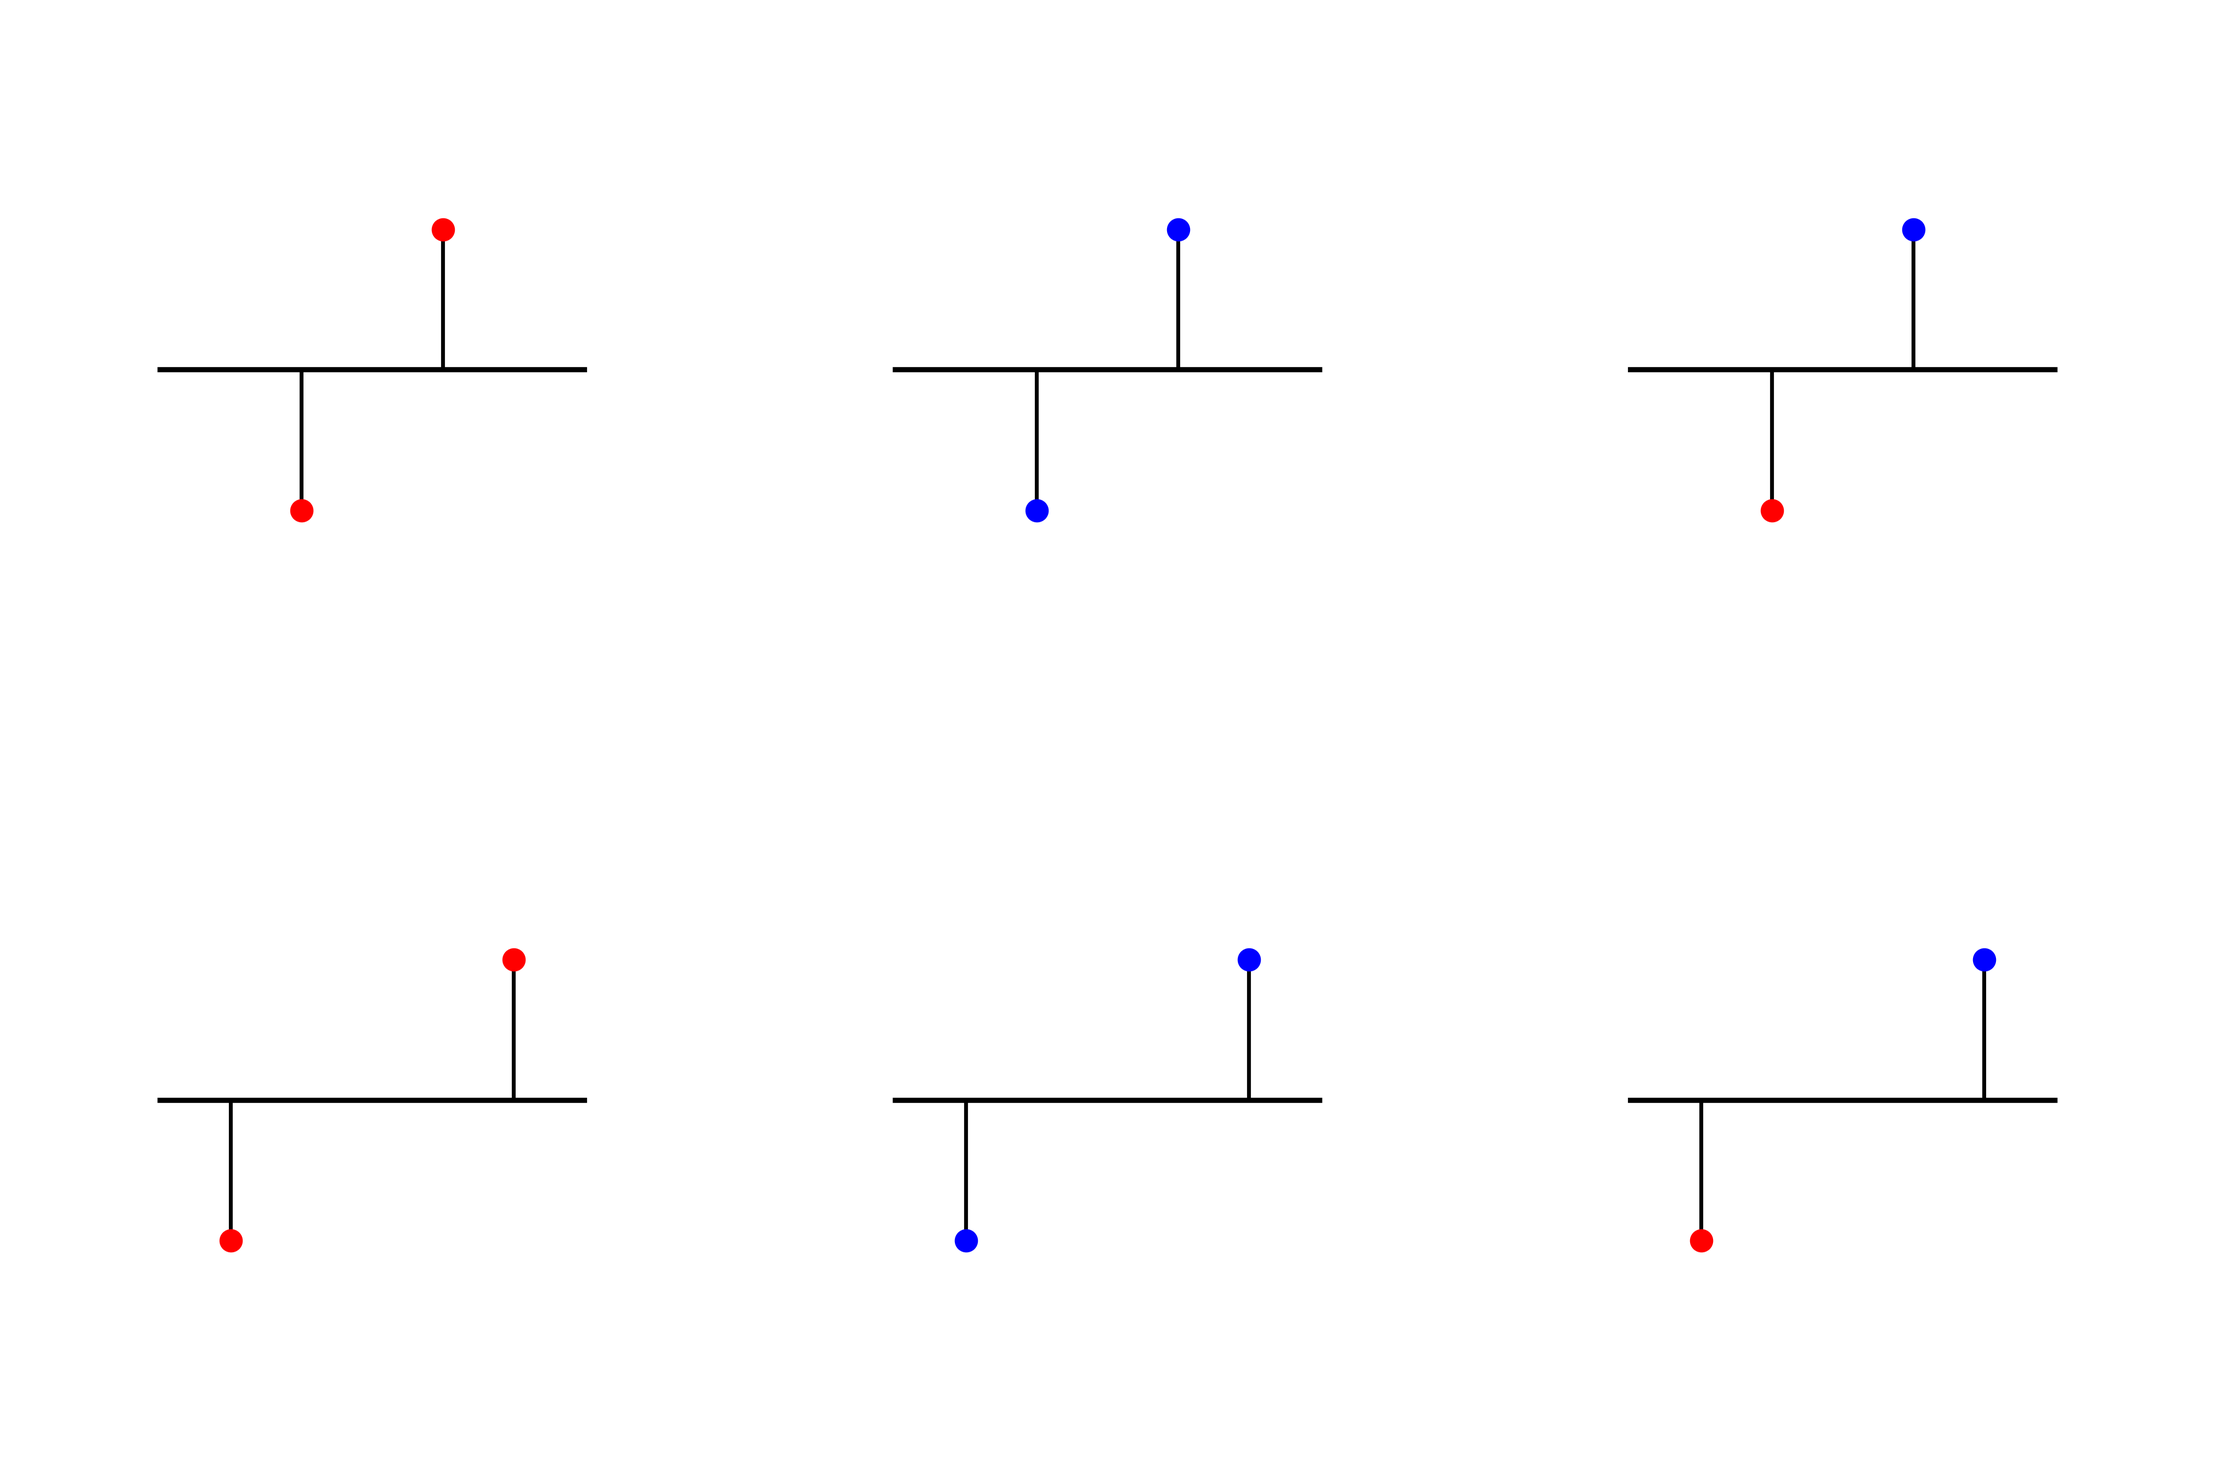
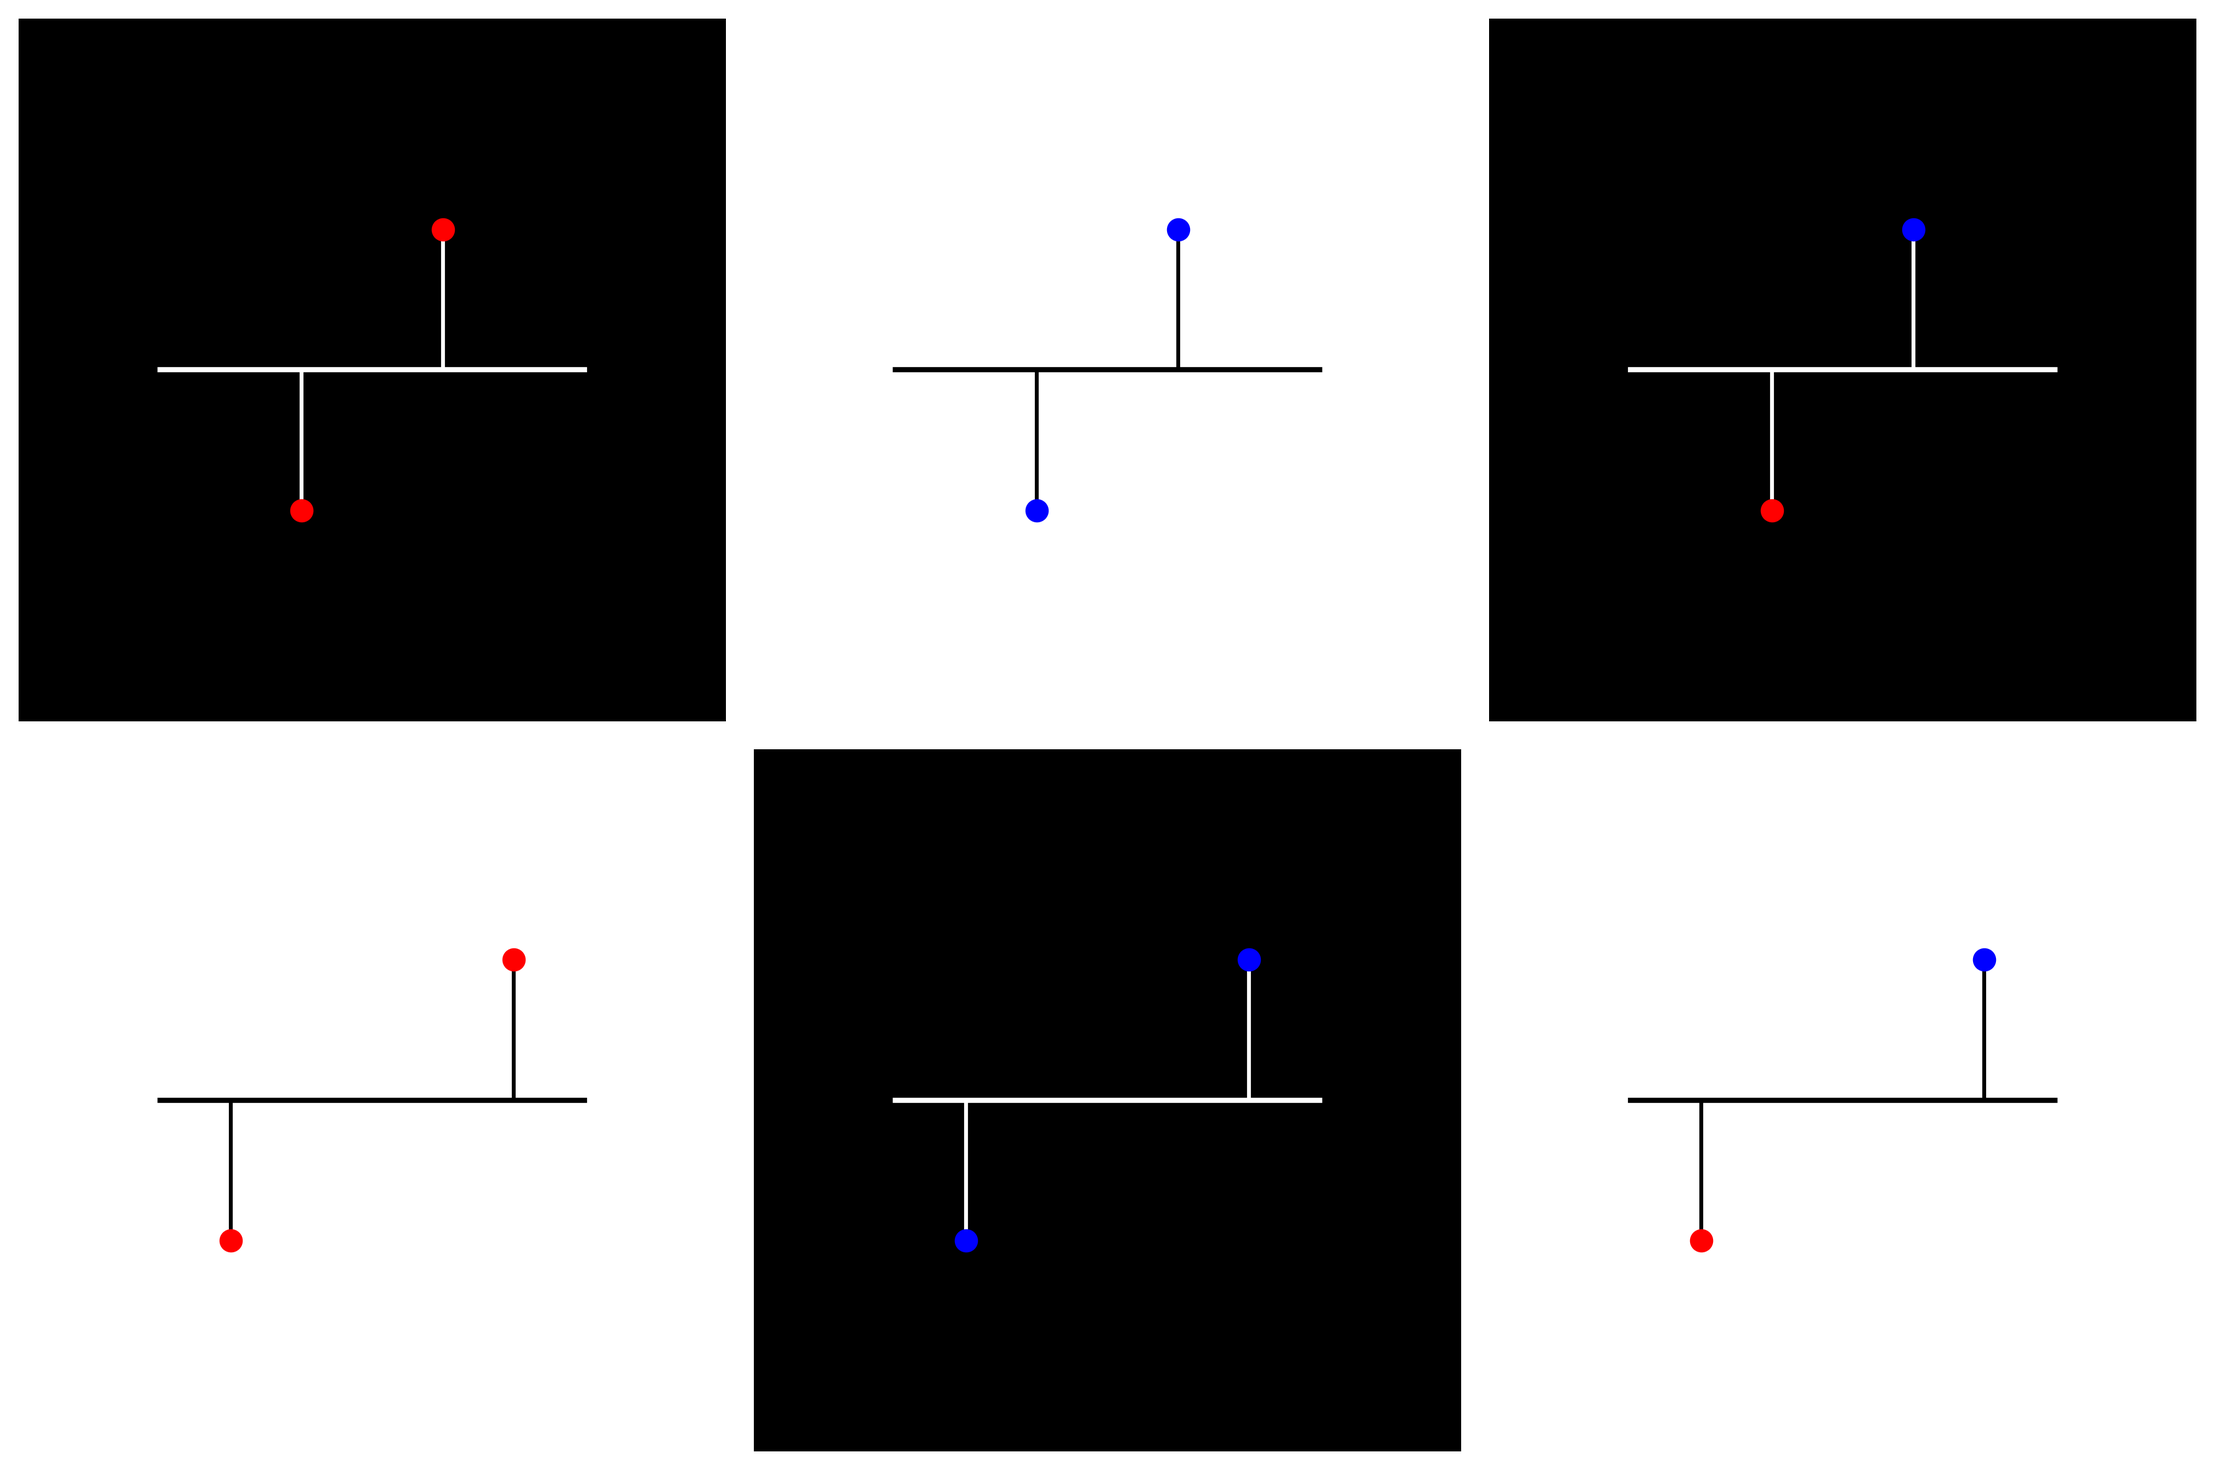
grays

diff --git a/prettyXOR.py b/prettyXOR.py
@@ -286,6 +286,23 @@ def create_plots():
         # Generate random synapse positions for all dendrite examples
         np.random.seed(42)  # For reproducible randomization
         dendrite_configs = []
+        
+        # Define subtle color palette with very light gray variations
+        subtle_colors = [
+            '#FEFEFE',  # Almost white
+            '#FDFDFD',  # Almost white
+            '#FCFCFC',  # Almost white
+            '#FBFBFB',  # Almost white
+            '#FAFAFA',  # Almost white
+            '#F9F9F9',  # Almost white
+            '#F8F8F8',  # Very light gray
+            '#F7F7F7',  # Very light gray
+            '#F6F6F6',  # Very light gray
+            '#F5F5F5',  # White smoke
+            '#F4F4F4',  # Very light gray
+            '#F3F3F3'   # Very light gray
+        ]
+        
         for _ in range(16):  # 16 dendrite examples total (4 rows + 4 cols + 4 corners)
             pos1 = np.random.uniform(2.5, 7.5)
             pos2 = np.random.uniform(2.5, 7.5)
@@ -308,16 +325,34 @@ def create_plots():
             ax_dendrite = fig.add_subplot(4, 5, i+1)
             ax_dendrite.set_xlim(0, 10)
             ax_dendrite.set_ylim(0, 10)
-            ax_dendrite.axis('off')
+            # Turn axes on but hide lines, ticks, and labels for proper facecolor support
+            ax_dendrite.set_xticks([])
+            ax_dendrite.set_yticks([])
+            ax_dendrite.spines['top'].set_visible(False)
+            ax_dendrite.spines['right'].set_visible(False)
+            ax_dendrite.spines['bottom'].set_visible(False)
+            ax_dendrite.spines['left'].set_visible(False)
             
             config = dendrite_configs[i]
+            
+            # Alternating color scheme: odd positions (0,2,4) = white background, even positions (1,3) = subtle color background
+            if i % 2 == 0:  # White background
+                ax_dendrite.set_facecolor('white')
+                dendrite_color = 'k-'
+                branch_color = 'k-'
+            else:  # Subtle color background
+                subtle_color = subtle_colors[i % len(subtle_colors)]
+                ax_dendrite.set_facecolor(subtle_color)
+                dendrite_color = 'k-'  # Black dendrites on light backgrounds
+                branch_color = 'k-'
+            
             # Main dendrite line
-            ax_dendrite.plot([2, 8], [5, 5], 'k-', linewidth=2)
+            ax_dendrite.plot([2, 8], [5, 5], dendrite_color, linewidth=2)
             # First synapse
-            ax_dendrite.plot([config['pos1'], config['pos1']], [5, 3], 'k-', linewidth=1.5)
+            ax_dendrite.plot([config['pos1'], config['pos1']], [5, 3], branch_color, linewidth=1.5)
             ax_dendrite.plot(config['pos1'], 3, f'{config["syn1_color"][0]}o', markersize=8)
             # Second synapse
-            ax_dendrite.plot([config['pos2'], config['pos2']], [5, 7], 'k-', linewidth=1.5)
+            ax_dendrite.plot([config['pos2'], config['pos2']], [5, 7], branch_color, linewidth=1.5)
             ax_dendrite.plot(config['pos2'], 7, f'{config["syn2_color"][0]}o', markersize=8)
 
         for i in range(len(json_files)):
@@ -473,16 +508,34 @@ def create_plots():
             ax_dendrite = fig.add_subplot(4, 5, pos)
             ax_dendrite.set_xlim(0, 10)
             ax_dendrite.set_ylim(0, 10)
-            ax_dendrite.axis('off')
+            # Turn axes on but hide lines, ticks, and labels for proper facecolor support
+            ax_dendrite.set_xticks([])
+            ax_dendrite.set_yticks([])
+            ax_dendrite.spines['top'].set_visible(False)
+            ax_dendrite.spines['right'].set_visible(False)
+            ax_dendrite.spines['bottom'].set_visible(False)
+            ax_dendrite.spines['left'].set_visible(False)
             
             config = dendrite_configs[i + 5]  # Use different configs
+            
+            # Alternating color scheme: position 6 = white background, position 11 = subtle color background
+            if i == 0:  # Position 6 - white background
+                ax_dendrite.set_facecolor('white')
+                dendrite_color = 'k-'
+                branch_color = 'k-'
+            else:  # Position 11 - subtle color background
+                subtle_color = subtle_colors[(i + 5) % len(subtle_colors)]
+                ax_dendrite.set_facecolor(subtle_color)
+                dendrite_color = 'k-'  # Black dendrites on light backgrounds
+                branch_color = 'k-'
+            
             # Main dendrite line
-            ax_dendrite.plot([2, 8], [5, 5], 'k-', linewidth=2)
+            ax_dendrite.plot([2, 8], [5, 5], dendrite_color, linewidth=2)
             # First synapse
-            ax_dendrite.plot([config['pos1'], config['pos1']], [5, 3], 'k-', linewidth=1.5)
+            ax_dendrite.plot([config['pos1'], config['pos1']], [5, 3], branch_color, linewidth=1.5)
             ax_dendrite.plot(config['pos1'], 3, f'{config["syn1_color"][0]}o', markersize=8)
             # Second synapse
-            ax_dendrite.plot([config['pos2'], config['pos2']], [5, 7], 'k-', linewidth=1.5)
+            ax_dendrite.plot([config['pos2'], config['pos2']], [5, 7], branch_color, linewidth=1.5)
             ax_dendrite.plot(config['pos2'], 7, f'{config["syn2_color"][0]}o', markersize=8)
         
         # RIGHT COLUMN: Dendrite visualizations (positions 10, 15) - skip corners
@@ -491,16 +544,34 @@ def create_plots():
             ax_dendrite = fig.add_subplot(4, 5, pos)
             ax_dendrite.set_xlim(0, 10)
             ax_dendrite.set_ylim(0, 10)
-            ax_dendrite.axis('off')
+            # Turn axes on but hide lines, ticks, and labels for proper facecolor support
+            ax_dendrite.set_xticks([])
+            ax_dendrite.set_yticks([])
+            ax_dendrite.spines['top'].set_visible(False)
+            ax_dendrite.spines['right'].set_visible(False)
+            ax_dendrite.spines['bottom'].set_visible(False)
+            ax_dendrite.spines['left'].set_visible(False)
             
             config = dendrite_configs[i + 7]  # Use different configs
+            
+            # Alternating color scheme: position 10 = subtle color background, position 15 = white background
+            if i == 0:  # Position 10 - subtle color background
+                subtle_color = subtle_colors[(i + 7) % len(subtle_colors)]
+                ax_dendrite.set_facecolor(subtle_color)
+                dendrite_color = 'k-'  # Black dendrites on light backgrounds
+                branch_color = 'k-'
+            else:  # Position 15 - white background
+                ax_dendrite.set_facecolor('white')
+                dendrite_color = 'k-'
+                branch_color = 'k-'
+            
             # Main dendrite line
-            ax_dendrite.plot([2, 8], [5, 5], 'k-', linewidth=2)
+            ax_dendrite.plot([2, 8], [5, 5], dendrite_color, linewidth=2)
             # First synapse
-            ax_dendrite.plot([config['pos1'], config['pos1']], [5, 3], 'k-', linewidth=1.5)
+            ax_dendrite.plot([config['pos1'], config['pos1']], [5, 3], branch_color, linewidth=1.5)
             ax_dendrite.plot(config['pos1'], 3, f'{config["syn1_color"][0]}o', markersize=8)
             # Second synapse
-            ax_dendrite.plot([config['pos2'], config['pos2']], [5, 7], 'k-', linewidth=1.5)
+            ax_dendrite.plot([config['pos2'], config['pos2']], [5, 7], branch_color, linewidth=1.5)
             ax_dendrite.plot(config['pos2'], 7, f'{config["syn2_color"][0]}o', markersize=8)
         
         # BOTTOM ROW: Dendrite visualizations (positions 16-20)
@@ -508,16 +579,34 @@ def create_plots():
             ax_dendrite = fig.add_subplot(4, 5, 16 + i)
             ax_dendrite.set_xlim(0, 10)
             ax_dendrite.set_ylim(0, 10)
-            ax_dendrite.axis('off')
+            # Turn axes on but hide lines, ticks, and labels for proper facecolor support
+            ax_dendrite.set_xticks([])
+            ax_dendrite.set_yticks([])
+            ax_dendrite.spines['top'].set_visible(False)
+            ax_dendrite.spines['right'].set_visible(False)
+            ax_dendrite.spines['bottom'].set_visible(False)
+            ax_dendrite.spines['left'].set_visible(False)
             
             config = dendrite_configs[i + 7]  # Use different configs
+            
+            # Alternating color scheme: odd positions (16,18,20) = white background, even positions (17,19) = subtle color background
+            if i % 2 == 0:  # White background
+                ax_dendrite.set_facecolor('white')
+                dendrite_color = 'k-'
+                branch_color = 'k-'
+            else:  # Subtle color background
+                subtle_color = subtle_colors[(i + 7) % len(subtle_colors)]
+                ax_dendrite.set_facecolor(subtle_color)
+                dendrite_color = 'k-'  # Black dendrites on light backgrounds
+                branch_color = 'k-'
+            
             # Main dendrite line
-            ax_dendrite.plot([2, 8], [5, 5], 'k-', linewidth=2)
+            ax_dendrite.plot([2, 8], [5, 5], dendrite_color, linewidth=2)
             # First synapse
-            ax_dendrite.plot([config['pos1'], config['pos1']], [5, 3], 'k-', linewidth=1.5)
+            ax_dendrite.plot([config['pos1'], config['pos1']], [5, 3], branch_color, linewidth=1.5)
             ax_dendrite.plot(config['pos1'], 3, f'{config["syn1_color"][0]}o', markersize=8)
             # Second synapse
-            ax_dendrite.plot([config['pos2'], config['pos2']], [5, 7], 'k-', linewidth=1.5)
+            ax_dendrite.plot([config['pos2'], config['pos2']], [5, 7], branch_color, linewidth=1.5)
             ax_dendrite.plot(config['pos2'], 7, f'{config["syn2_color"][0]}o', markersize=8)
         
         plt.subplots_adjust(left=0.0, right=1.0, top=1.0, bottom=0.0, wspace=0.0, hspace=-0.1)

diff --git a/XOR/dendrite_visualization.py b/XOR/dendrite_visualization.py
@@ -4,64 +4,76 @@ import numpy as np
 # Create figure with 2x3 subplots
 fig, axes = plt.subplots(2, 3, figsize=(12, 8))
 
-# Remove all axes, ticks, and labels for minimalism
+# Set up axes with proper facecolor support
 for ax in axes.flat:
     ax.set_xlim(0, 10)
     ax.set_ylim(0, 10)
-    ax.axis('off')
+    # Turn axes on but hide lines, ticks, and labels
+    ax.set_xticks([])
+    ax.set_yticks([])
+    ax.spines['top'].set_visible(False)
+    ax.spines['right'].set_visible(False)
+    ax.spines['bottom'].set_visible(False)
+    ax.spines['left'].set_visible(False)
 
 # Row 1: Close synapses
-# Panel 1: Close, both red
+# Panel 1: Close, both red - WHITE ON BLACK
 ax1 = axes[0, 0]
-ax1.plot([2, 8], [5, 5], 'k-', linewidth=2)
-ax1.plot([4, 4], [5, 3], 'k-', linewidth=1.5)
-ax1.plot(4, 3, 'ro', markersize=8)
-ax1.plot([6, 6], [5, 7], 'k-', linewidth=1.5)
-ax1.plot(6, 7, 'ro', markersize=8)
+ax1.set_facecolor('black')  # Set black background
+ax1.plot([2, 8], [5, 5], 'w-', linewidth=2)  # White dendrite
+ax1.plot([4, 4], [5, 3], 'w-', linewidth=1.5)  # White branch
+ax1.plot(4, 3, 'ro', markersize=8)  # Red synapse
+ax1.plot([6, 6], [5, 7], 'w-', linewidth=1.5)  # White branch
+ax1.plot(6, 7, 'ro', markersize=8)  # Red synapse
 
-# Panel 2: Close, both blue
+# Panel 2: Close, both blue - BLACK ON WHITE
 ax2 = axes[0, 1]
-ax2.plot([2, 8], [5, 5], 'k-', linewidth=2)
-ax2.plot([4, 4], [5, 3], 'k-', linewidth=1.5)
-ax2.plot(4, 3, 'bo', markersize=8)
-ax2.plot([6, 6], [5, 7], 'k-', linewidth=1.5)
-ax2.plot(6, 7, 'bo', markersize=8)
+ax2.set_facecolor('white')  # Set white background
+ax2.plot([2, 8], [5, 5], 'k-', linewidth=2)  # Black dendrite
+ax2.plot([4, 4], [5, 3], 'k-', linewidth=1.5)  # Black branch
+ax2.plot(4, 3, 'bo', markersize=8)  # Blue synapse
+ax2.plot([6, 6], [5, 7], 'k-', linewidth=1.5)  # Black branch
+ax2.plot(6, 7, 'bo', markersize=8)  # Blue synapse
 
-# Panel 3: Close, red and blue
+# Panel 3: Close, red and blue - WHITE ON BLACK
 ax3 = axes[0, 2]
-ax3.plot([2, 8], [5, 5], 'k-', linewidth=2)
-ax3.plot([4, 4], [5, 3], 'k-', linewidth=1.5)
-ax3.plot(4, 3, 'ro', markersize=8)
-ax3.plot([6, 6], [5, 7], 'k-', linewidth=1.5)
-ax3.plot(6, 7, 'bo', markersize=8)
+ax3.set_facecolor('black')  # Set black background
+ax3.plot([2, 8], [5, 5], 'w-', linewidth=2)  # White dendrite
+ax3.plot([4, 4], [5, 3], 'w-', linewidth=1.5)  # White branch
+ax3.plot(4, 3, 'ro', markersize=8)  # Red synapse
+ax3.plot([6, 6], [5, 7], 'w-', linewidth=1.5)  # White branch
+ax3.plot(6, 7, 'bo', markersize=8)  # Blue synapse
 
 # Row 2: Far synapses
-# Panel 4: Far, both red
+# Panel 4: Far, both red - BLACK ON WHITE
 ax4 = axes[1, 0]
-ax4.plot([2, 8], [5, 5], 'k-', linewidth=2)
-ax4.plot([3, 3], [5, 3], 'k-', linewidth=1.5)
-ax4.plot(3, 3, 'ro', markersize=8)
-ax4.plot([7, 7], [5, 7], 'k-', linewidth=1.5)
-ax4.plot(7, 7, 'ro', markersize=8)
+ax4.set_facecolor('white')  # Set white background
+ax4.plot([2, 8], [5, 5], 'k-', linewidth=2)  # Black dendrite
+ax4.plot([3, 3], [5, 3], 'k-', linewidth=1.5)  # Black branch
+ax4.plot(3, 3, 'ro', markersize=8)  # Red synapse
+ax4.plot([7, 7], [5, 7], 'k-', linewidth=1.5)  # Black branch
+ax4.plot(7, 7, 'ro', markersize=8)  # Red synapse
 
-# Panel 5: Far, both blue
+# Panel 5: Far, both blue - WHITE ON BLACK
 ax5 = axes[1, 1]
-ax5.plot([2, 8], [5, 5], 'k-', linewidth=2)
-ax5.plot([3, 3], [5, 3], 'k-', linewidth=1.5)
-ax5.plot(3, 3, 'bo', markersize=8)
-ax5.plot([7, 7], [5, 7], 'k-', linewidth=1.5)
-ax5.plot(7, 7, 'bo', markersize=8)
+ax5.set_facecolor('black')  # Set black background
+ax5.plot([2, 8], [5, 5], 'w-', linewidth=2)  # White dendrite
+ax5.plot([3, 3], [5, 3], 'w-', linewidth=1.5)  # White branch
+ax5.plot(3, 3, 'bo', markersize=8)  # Blue synapse
+ax5.plot([7, 7], [5, 7], 'w-', linewidth=1.5)  # White branch
+ax5.plot(7, 7, 'bo', markersize=8)  # Blue synapse
 
-# Panel 6: Far, red and blue
+# Panel 6: Far, red and blue - BLACK ON WHITE
 ax6 = axes[1, 2]
-ax6.plot([2, 8], [5, 5], 'k-', linewidth=2)
-ax6.plot([3, 3], [5, 3], 'k-', linewidth=1.5)
-ax6.plot(3, 3, 'ro', markersize=8)
-ax6.plot([7, 7], [5, 7], 'k-', linewidth=1.5)
-ax6.plot(7, 7, 'bo', markersize=8)
+ax6.set_facecolor('white')  # Set white background
+ax6.plot([2, 8], [5, 5], 'k-', linewidth=2)  # Black dendrite
+ax6.plot([3, 3], [5, 3], 'k-', linewidth=1.5)  # Black branch
+ax6.plot(3, 3, 'ro', markersize=8)  # Red synapse
+ax6.plot([7, 7], [5, 7], 'k-', linewidth=1.5)  # Black branch
+ax6.plot(7, 7, 'bo', markersize=8)  # Blue synapse
 
 # Adjust layout and save
 plt.tight_layout()
-plt.savefig('XOR/dendrite_visualization.png', dpi=300, bbox_inches='tight', 
+plt.savefig('dendrite_visualization.png', dpi=300, bbox_inches='tight', 
             facecolor='white', edgecolor='none')
 plt.show()
